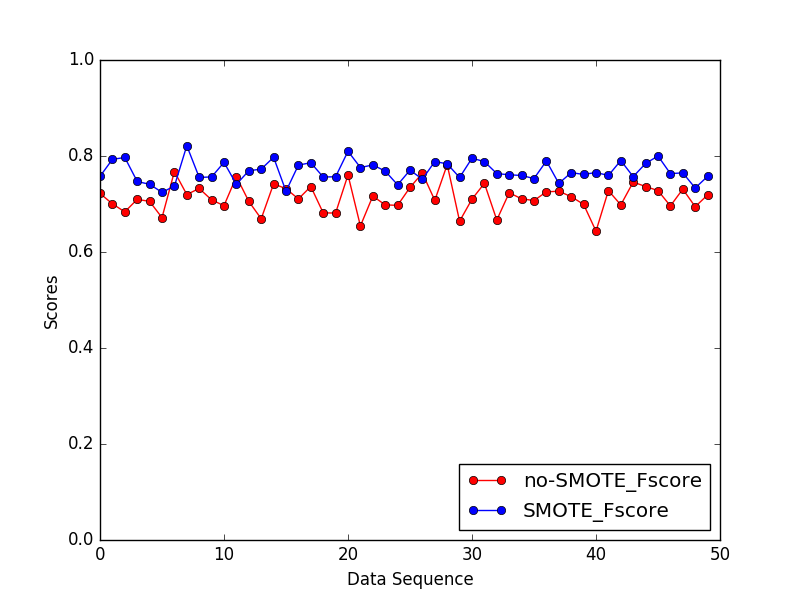
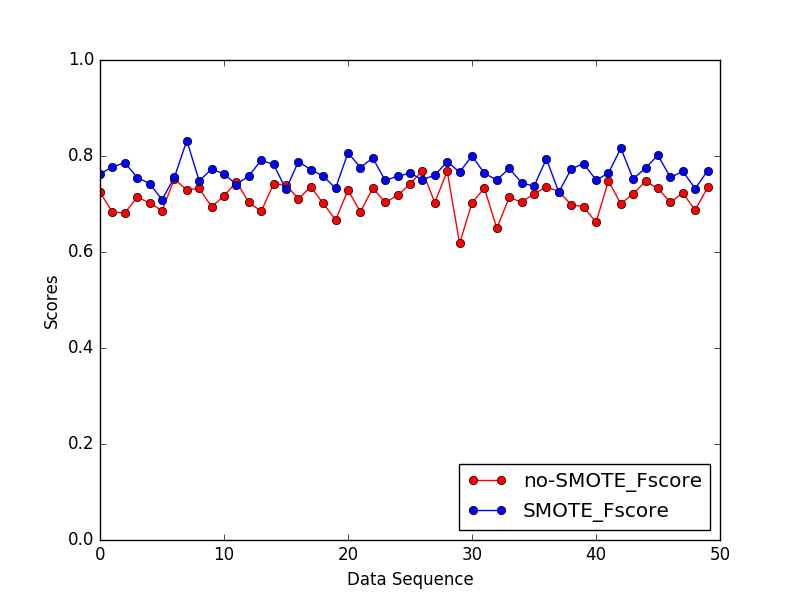
update files and code

Changed region(s): [[0.125, 0.21, 0.9062, 0.42]]

diff --git a/code/EmailSignatureExtraction_v1.py b/code/EmailSignatureExtraction_v1.py
@@ -41,7 +41,7 @@ def main():
                       "DT": sklearn.tree.DecisionTreeClassifier(), \
                       "NBayes": sklearn.naive_bayes.GaussianNB(), \
                       "NNeighbors": sklearn.neighbors.nearest_centroid.NearestCentroid()}
-            model_chosen = "NBayes"
+            model_chosen = "NNeighbors"
             accuracys, precisions, recalls, Fscores = cross_validationS(\
                 data_pos_vec, data_neg_vec, models[model_chosen], num_cross=NUM_OF_CROSSFOLD) # cross validation
             sFscores.extend(Fscores)
@@ -61,8 +61,8 @@ def main():
     plt.legend(loc=4, borderaxespad=0.5)
     plt.ylabel("Scores")
     plt.xlabel("Data Sequence")
-    plt.savefig(model_chosen+"-ValidationStats.png")
-    savefile_name = model_chosen + "-ValidationStats.txt"
+    plt.savefig("../results/"+model_chosen+"-ValidationStats.png")
+    savefile_name = "../results/" + model_chosen + "-ValidationStats.txt"
     fp = open(savefile_name, 'w')
     print "******** Evaluation **********\n"
     fp.write("******** Evaluation **********\n")
